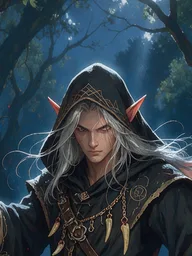
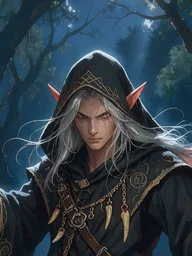
Testversion 0.27: 16 neue Heldenbilder (Dunkle Künste und Mystische Kräfte, alle Rassen)
Claude-Session: https://claude.ai/code/session_01RMGcH655twmD43uv7vfpX5

diff --git a/src/ui/app.ts b/src/ui/app.ts
@@ -39,7 +39,7 @@ import { applyPvpEvents, applyPvpResult } from '../game/pvp';
 type Screen = 'title' | 'create' | 'village' | 'forest' | 'fight' | 'training' | 'healer' | 'smith'
   | 'bank' | 'inn' | 'bestiary' | 'fame' | 'chronicle' | 'feedback' | 'settings' | 'shadows' | 'dragonBonus' | 'syncConflict' | 'login' | 'fields' | 'innGuests' | 'news' | 'flirt' | 'stable' | 'warriors' | 'mail' | 'haunt';
 
-const VERSION = 'Testversion 0.26';
+const VERSION = 'Testversion 0.27';
 
 interface Ui {
   screen: Screen;
